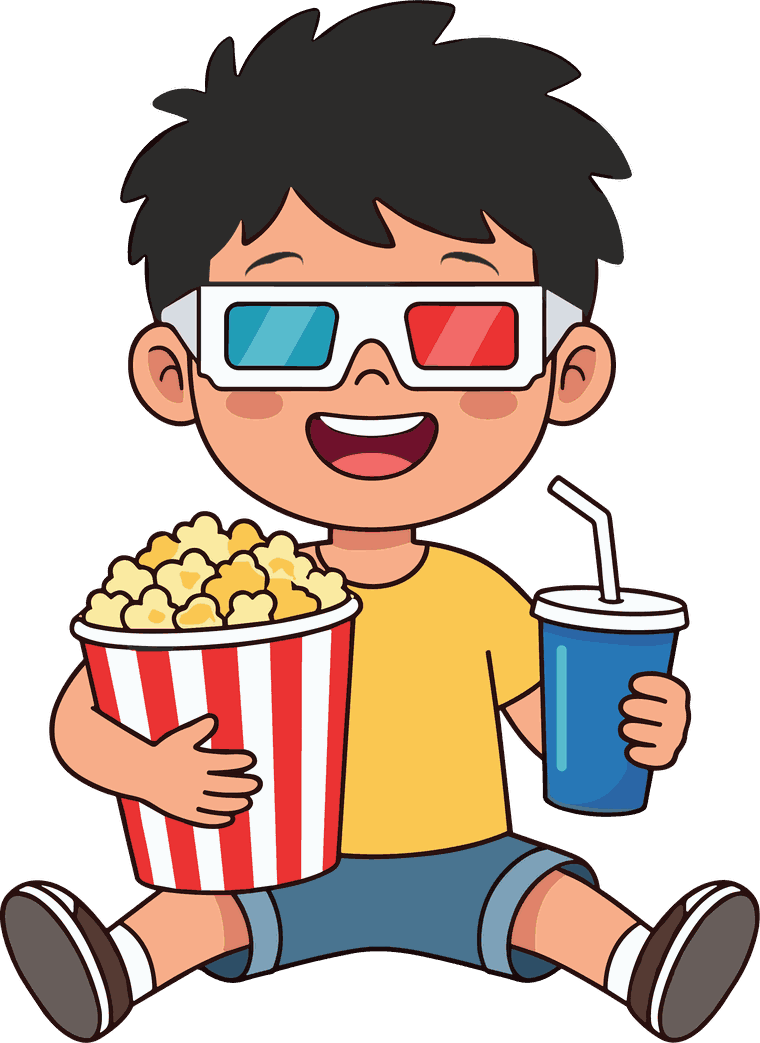
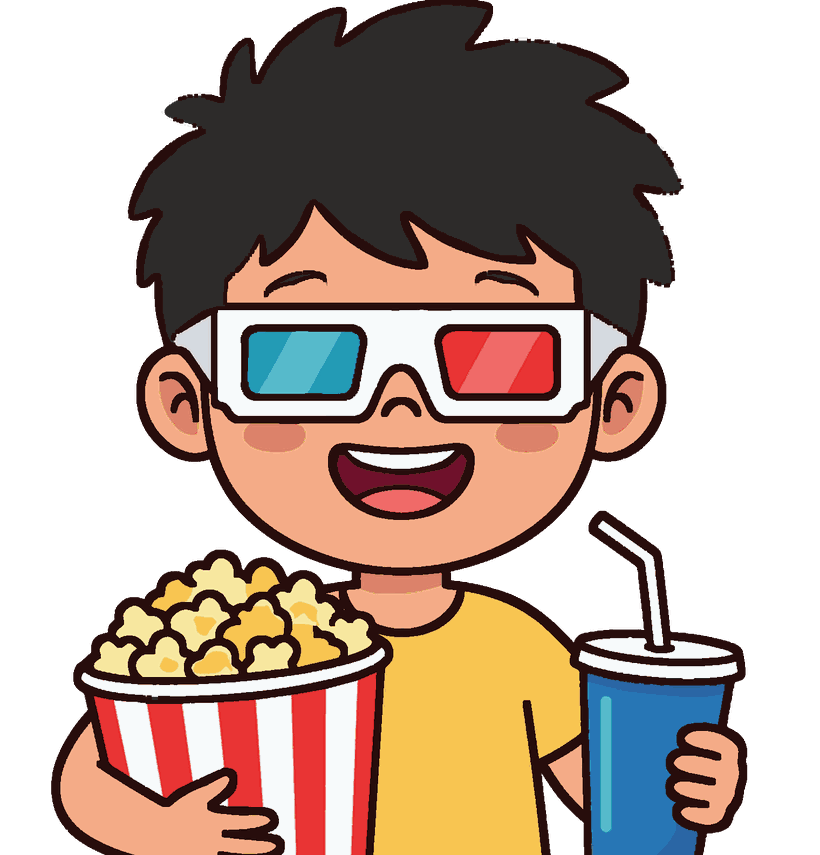
Filmpjes: één kaart zonder emoji's, duidelijker lege staat en een steviger mascotte
Het overzicht was gaan springen doordat sommige blokken een kopje hadden en andere
niet, en zo'n kopje leek net zo goed bij het blok eronder te horen. Nu staat alles
in één kaart: de twee onderdelen met een eigen indeling krijgen een groepsregel ín
die kaart, met hun regels ingesprongen eronder. De tekentjes voor de regels zijn
weg en het aantal staat er net als bij de woorden.

Verder: de hulptekst van een leeg onderdeel staat in een gestippeld kader, net als
een aanstaand evenement op de tijdlijn; Verwijderen staat in het menu op een rood
getint vlak; en de mascotte heeft dikkere lijnen en is tot navelhoogte bijgesneden,
zodat hij groter in beeld staat.

diff --git a/concept-coach.html b/concept-coach.html
@@ -497,18 +497,22 @@
      Eén categorie tegelijk, over de volle breedte. Planken naast elkaar nodigen uit tot
      grasduinen; taekwondo gaat over focus, dus je kiest eerst waar je mee bezig bent en ziet
      dan alleen dat. */
-  /* Het overzicht is een lijst, net als het Handboek en de Woordenschat: je ziet alle
-     onderdelen tegelijk en hoeft niets opzij te schuiven om te weten wat er is. Het kopje boven
-     een blok noemt het onderdeel waar de regels bij horen, zodat "Techniek" niet in de lucht
-     hangt. */
-  .vd-secl{margin:22px 0 -8px;padding:0 4px;font-family:var(--cond);text-transform:uppercase;
+  /* Het overzicht is één lijst, net als het Handboek en de Woordenschat. De twee onderdelen
+     die zelf zijn opgesplitst krijgen geen los kopje boven een eigen kaart meer — dat liet de
+     blokken springen en het kopje leek net zo goed bij het blok eronder te horen. In plaats
+     daarvan staat de naam als groepsregel ín de kaart, met zijn eigen regels ingesprongen
+     eronder. Zo hoort alles zichtbaar bij elkaar en is er maar één kaart. */
+  .vdlist .wrow{padding:12px 16px}
+  /* Zonder tekentje links hoort de scheidslijn ook links te beginnen, anders zweeft hij. */
+  .vdlist .wrow + .wrow::before{left:16px}
+  .vdlist .wrow-grp + .wrow::before{display:none}
+  .vdlist .vd-in + .vd-in::before{left:32px}
+  .wrow-grp{display:flex;align-items:center;gap:10px;width:100%;padding:15px 16px 7px;
+    background:none;border:0;text-align:left;cursor:default}
+  .wrow-grp .wrow-gt{flex:1 1 auto;min-width:0;font-family:var(--cond);text-transform:uppercase;
     letter-spacing:.12em;font-size:11px;font-weight:700;color:var(--gray)}
-  .vd-secl + .wlist{margin-top:12px}
-  .vd-emb{font-size:16px;line-height:1}
-  /* Hoeveel filmpjes er in zitten hoort bij de regel, links van het pijltje: een leeg onderdeel
-     laat het getal gewoon weg in plaats van een nul te tonen. */
-  .vd-rown{flex:none;min-width:22px;padding:2px 7px;border-radius:999px;background:var(--soft);
-    color:var(--gray);font-size:11.5px;font-weight:800;text-align:center}
+  /* Een ingesprongen regel hoort bij de groepsregel erboven. */
+  .vdlist .vd-in{padding-left:32px}
   /* De gereedschapsregel: alleen nog waarop je sorteert. Een keuze tussen weergaven is er niet
      meer — zonder voorbeeldplaatje bij Facebook en bij je eigen filmpjes is een raster een rij
      grijze vlakken, en dan is de lijst gewoon de betere. */
@@ -591,14 +595,20 @@
   /* In de lijstweergave staat de tekst naast het beeld; in een raster eronder. Eén omhulsel
      maakt dat verschil met één regel opmaak in plaats van twee verschillende kaarten. */
   .vd-txt{display:block;min-width:0}
-  .vd-empty{font-size:13.5px;color:var(--gray);line-height:1.5;text-align:center;padding:30px 10px 18px}
+  /* Nog niets hier: net als een aanstaand evenement op de tijdlijn staat de tekst in een
+     gestippeld kader. Het is duidelijk een lege plek die nog gevuld mag worden, geen fout. */
+  .vd-empty{margin:26px 2px 8px;padding:26px 18px;border:1px dashed rgba(30,22,16,.3);
+    border-radius:16px;font-size:13.5px;color:var(--gray);line-height:1.6;text-align:center}
+  .vd-empty b{color:var(--ink)}
   /* Per-item menu, as a compact sheet so it matches every other sheet in the app. */
   .vd-menu{display:flex;flex-direction:column;gap:9px}
   .vd-mi{display:flex;align-items:center;gap:11px;width:100%;border:1px solid var(--line);border-radius:14px;
     padding:14px 16px;background:var(--surface);color:var(--ink);font-size:14.5px;font-weight:700;
     cursor:pointer;-webkit-tap-highlight-color:transparent}
   .vd-mi:active{opacity:.7}
-  .vd-mi.danger{color:#B23A48}
+  /* Weggooien is de enige stap die je niet terug kunt draaien; daarom draagt hij die kleur
+     al in het menu, niet pas in de vraag erna. */
+  .vd-mi.danger{color:#B23A48;border-color:rgba(178,58,72,.34);background:#FDF3F4}
   .vd-mi.cancel{justify-content:center;color:var(--gray)}
   /* De bevestigingsknop is rood en gevuld, niet een regeltje in een lijst: weggooien is de
      enige stap in dit vel die je niet meer terug kunt draaien, en dat hoort te zien te zijn
@@ -6049,36 +6059,33 @@
      zitten, en je hoeft niets weg te schuiven om te weten wat er is. De onderdelen die zelf
      zijn opgesplitst krijgen een eigen blok met hun naam erboven, zodat "Techniek" niet in de
      lucht hangt. */
-  function vdRowHtml(cat, sub, label){
-    var c=vdCatOf(cat), n=vdTel(cat, sub), su=sub?vdSub(c, sub):null;
-    return '<button class="wrow" data-act="vdopen" data-c="'+esc(cat)+'" data-s="'+esc(sub||'')+'" '+
+  function vdRowHtml(cat, sub, label, klas){
+    var n=vdTel(cat, sub);
+    return '<button class="wrow'+(klas?' '+klas:'')+'" data-act="vdopen" data-c="'+esc(cat)+'" data-s="'+esc(sub||'')+'" '+
       'aria-label="'+esc(vdPlekLabel(cat, sub))+' — '+n+(n===1?' filmpje':' filmpjes')+'">'+
-      '<span class="wrow-emb hb-emb vd-emb" style="--e:'+c.el+'" aria-hidden="true">'+
-        esc((su&&su.ico)||c.ico)+'</span>'+
       '<span class="wrow-tx"><span class="wrow-t">'+esc(label)+'</span></span>'+
-      (n?'<span class="vd-rown">'+n+'</span>':'')+
+      '<span class="wrow-n">'+(n||'')+'</span>'+
       '<span class="wrow-ch">'+IC.chev+'</span>'+
     '</button>';
   }
   function vdHubHtml(){
     var uit='';
-    // Onderdelen zonder eigen indeling schuiven samen in één blok tot er een met subcategorieën
-    // langskomt; die krijgt zijn eigen kaart met een kopje.
-    var los='';
     VD_CATS.forEach(function(c){
       if(c.k==='overig') return;
       if(c.subs){
-        if(los){ uit+='<div class="wlist">'+los+'</div>'; los=''; }
-        uit+='<p class="vd-secl">'+esc(c.label)+'</p><div class="wlist">'+
-          c.subs.map(function(su){ return vdRowHtml(c.k, su.k, su.label); }).join('')+'</div>';
+        // De naam van het onderdeel staat als groepsregel ín de kaart, met zijn eigen regels
+        // ingesprongen eronder: zo hoort zichtbaar bij elkaar wat bij elkaar hoort.
+        uit+='<div class="wrow wrow-grp"><span class="wrow-gt">'+esc(c.label)+'</span></div>'+
+          c.subs.map(function(su,i){
+            return vdRowHtml(c.k, su.k, su.label, 'vd-in');
+          }).join('');
       } else {
-        los+=vdRowHtml(c.k, '', c.label);
+        uit+=vdRowHtml(c.k, '', c.label);
       }
     });
-    if(los) uit+='<div class="wlist">'+los+'</div>';
     // Overig hoort er alleen te staan als er iets in zit: een leeg vangnet is ruis.
-    if(vdTel('overig','')) uit+='<div class="wlist">'+vdRowHtml('overig','','Overig')+'</div>';
-    return uit;
+    if(vdTel('overig','')) uit+=vdRowHtml('overig','','Overig');
+    return '<div class="wlist vdlist">'+uit+'</div>';
   }
   /* De reservekopie staat onderaan, net als op de tijdlijn: eerst je verzameling, dan pas het
      veiligstellen ervan. Het is één bestand voor de hele app, dus een kopie die je hier maakt

diff --git a/sw.js b/sw.js
@@ -2,7 +2,7 @@
    Mijn Poom Academie — Service Worker (offline-first)
    Verhoog CACHE bij elke inhoud-/codewijziging om te verversen.
    ============================================================ */
-var CACHE = 'poom-v175';
+var CACHE = 'poom-v176';
 
 /* Kern-schil die vooraf wordt gecachet (rest volgt tijdens gebruik). */
 var PRECACHE = [
